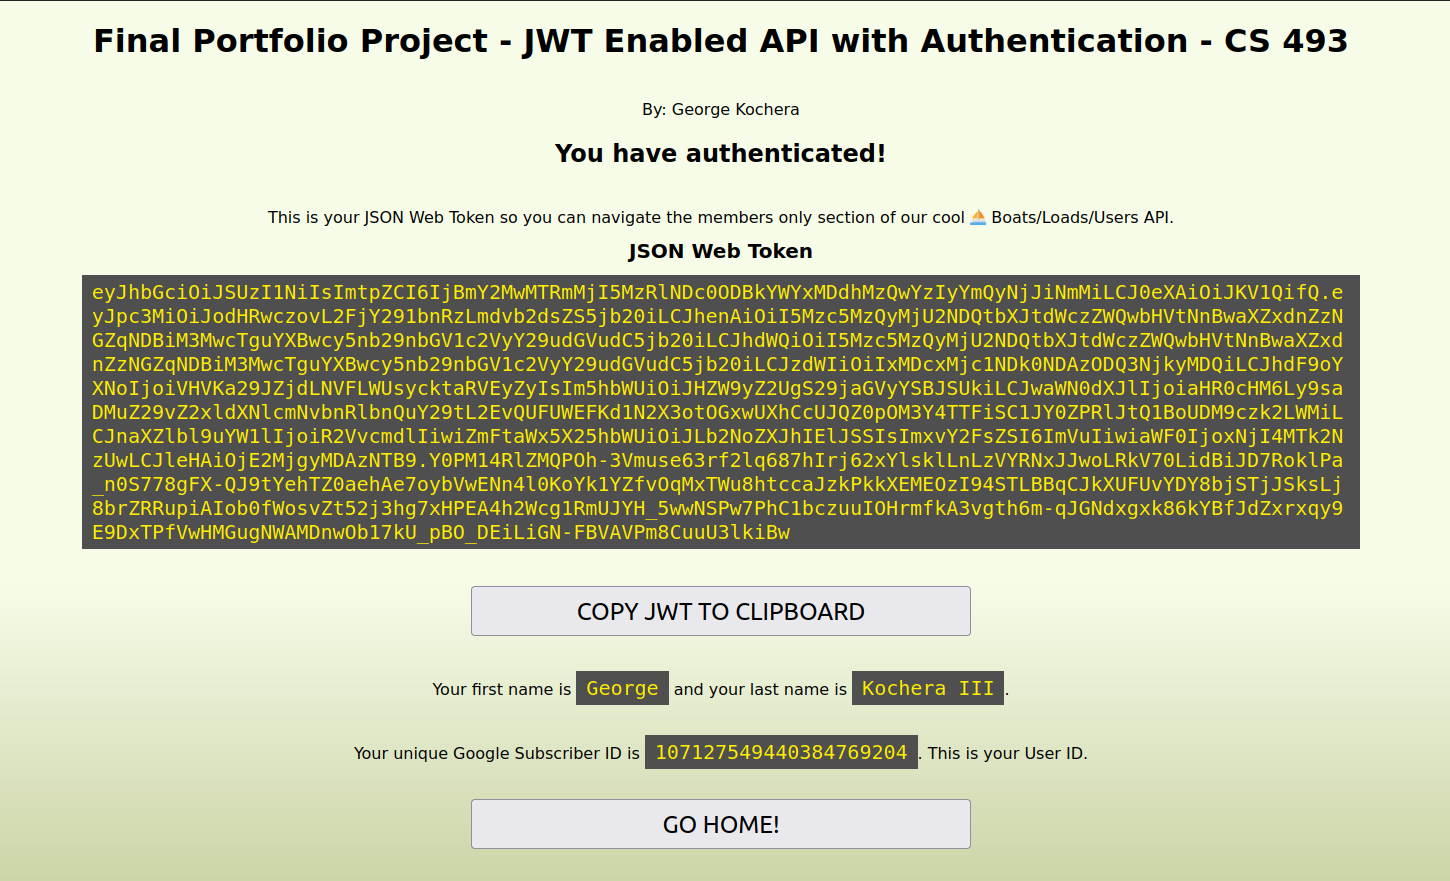
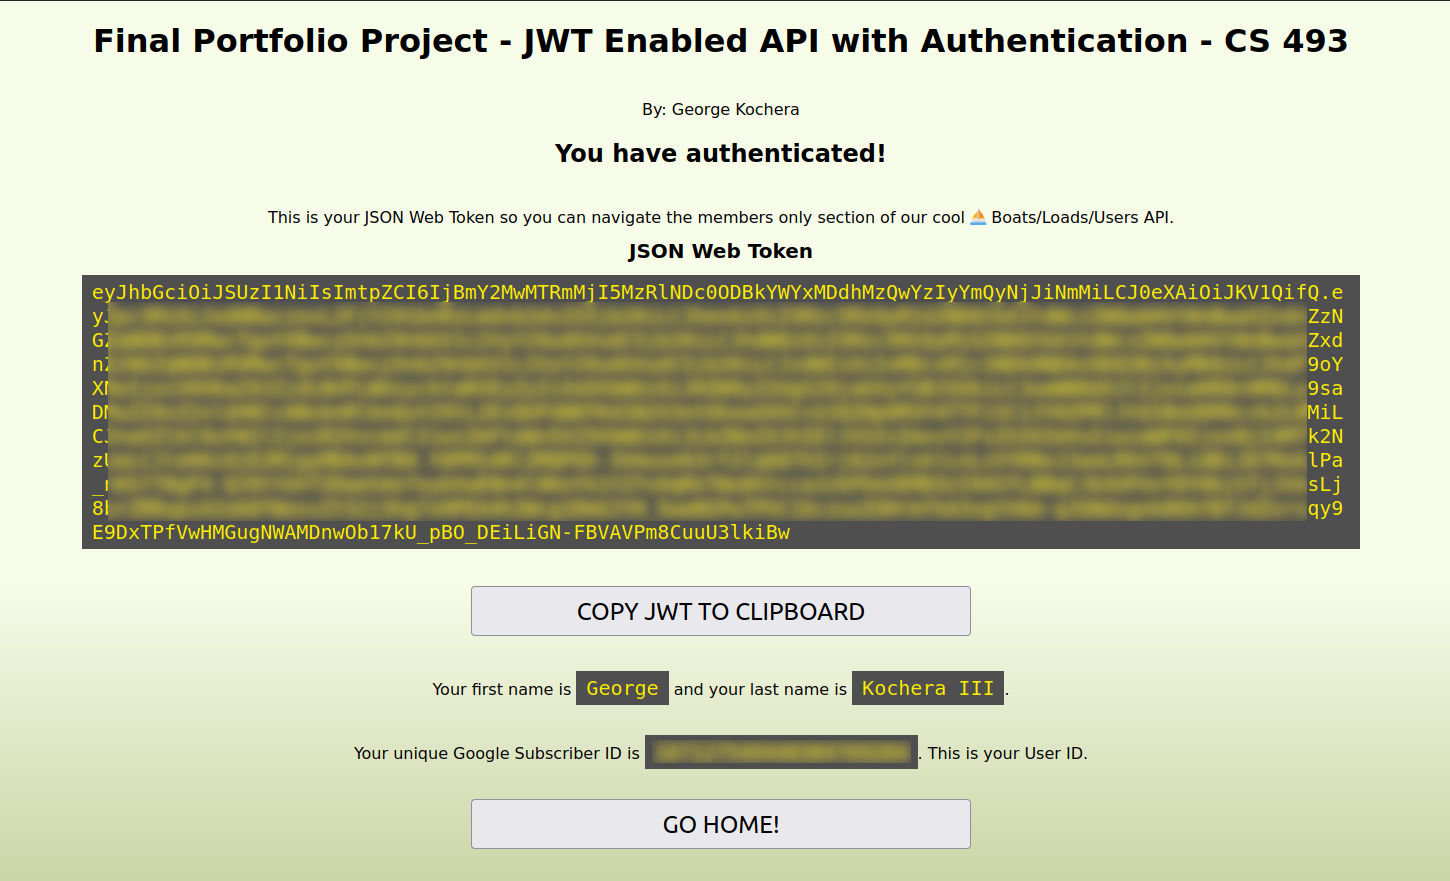
redacted part of example JWT

Changed region(s): [[0.0621, 0.3371, 0.9, 0.6129], [0.4345, 0.8275, 0.6517, 0.8888]]

diff --git a/README.md b/README.md
@@ -8,3 +8,12 @@ This is was my Final Portfolio Project for Oregon State University's CS493 - Clo
 
 You can find the original PDF ![here](./documentation/cargo-management-api-documentation.pdf) that covers the data model for this project, the access levels for each endpoint as well as a comprehensive overview of accessing each endpoint.
 
+# Getting Started
+
+Start by visiting http://kg-final9.ue.r.appspot.com. If you haven't already signed up, you must do that first by clicking 'Sign-Up with Google'.
+
+> You will be required to authenticate with a Google account to gain access to the API. Your First Name, Last Name are used to simply present your name back to you on the page you'll see when you logged in. Your Google Subscriber ID (The `sub` value in your JWT) is saved in the datastore and used to connect you to elements in the database. No other data is parsed, used or saved by this application.
+
+Once you have authenticated with Google, you will be presented with a new screen that displays the JWT along with your First and Last name as well as the value of your Google Subscriber ID.
+
+
